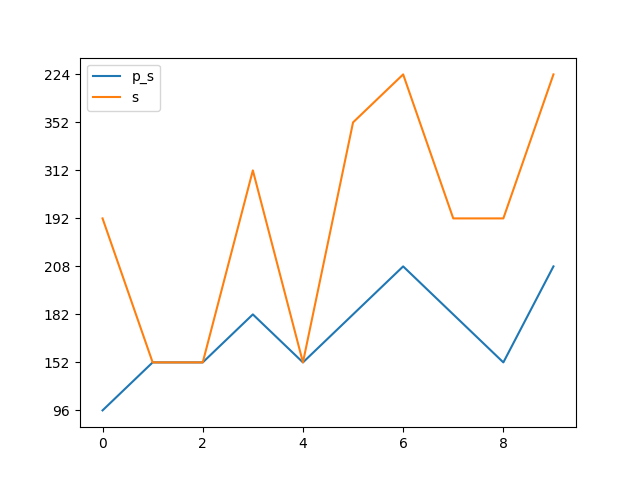
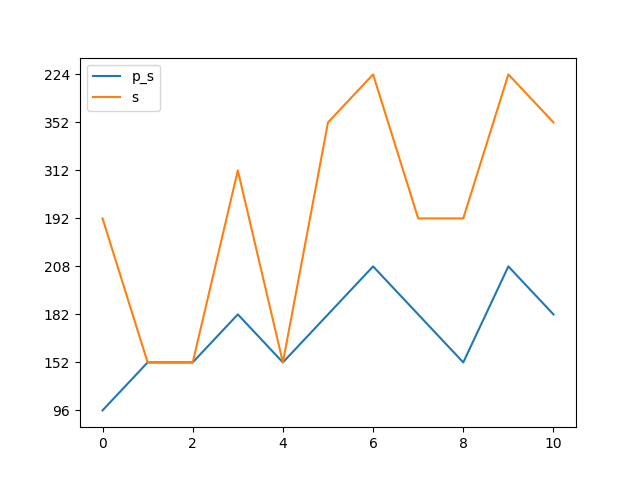
0x000A

diff --git a/benchmark.md b/benchmark.md
@@ -28,3 +28,5 @@ Synthesising 0x0008 pexact:152 r=3 exact:192 r=3
 
 Synthesising 0x0009 pexact:208 r=4 exact:224 r=3
 
+Synthesising 0x000A pexact:182 r=4 exact:352 r=4
+
